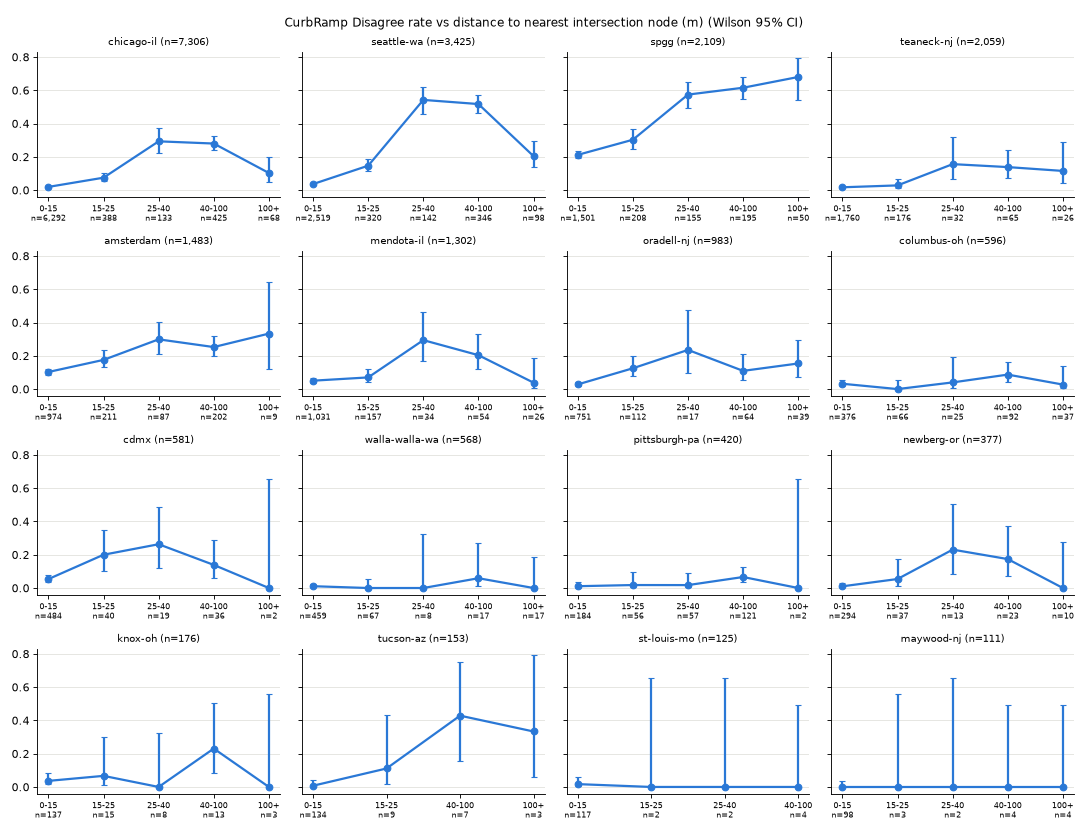
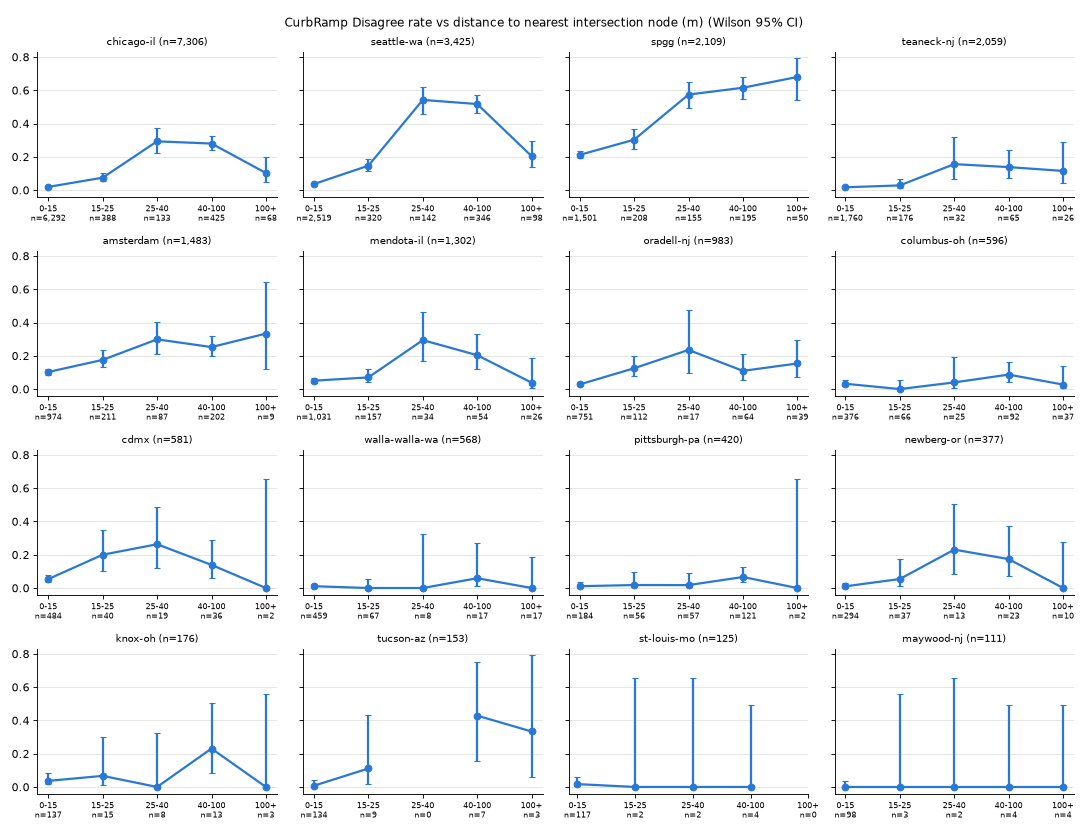
Road prior write-up: city-resampled CIs, expert pool, review nits
- Transfer of the routing signal is not established: ΔAUC +0.008 clears
  zero resampling labels (0.002-0.015) but not cities (-0.004 to 0.014);
  no CurbRamp lift CI clears zero at the city level.
- Expert-overturned Agrees (now 154, read from validations) sit >= 25 m
  from an intersection 27% of the time vs 7% uncontested.
- Packet rebuilt: 100 AI Disagrees / 100 overturned Agrees (46 expert),
  50 per distance bucket, 34 cities; new key digest.
- Nits: Tucson AUC range, two rounding fixes, CI pointers, degree-2
  nodes, "nothing material", provenance pins tables not figures.
- provenance.json and the by-city figure re-recorded at the fix commit.

diff --git a/docs/road-prior-2026-10.md b/docs/road-prior-2026-10.md
@@ -3,22 +3,24 @@
 Issue #45 asks whether road-network context can tell driveway aprons mislabelled as CurbRamp from real curb ramps,
 and whether it adds anything over the production confidence. This is the first measurement. It uses no GPU, no
 imagery and no retraining. The code is `analysis/road_prior.py`; every number below comes from its `evaluate`,
-`stratify` and `routing` stages, and `road-prior-2026-10/provenance.json` pins their inputs, outputs and commit.
+`stratify` and `routing` stages, and `road-prior-2026-10/provenance.json` pins their inputs, output tables and commit (not the figures).
 
 ## Recommendation
 
 **Do not add road context as a model feature. Keep it as a candidate routing signal for cast CurbRamp Disagree
 votes, and decide after the hand-coding packet is coded.**
 
-- **As a feature it adds nothing.** Distance to an intersection predicts the human verdict on its own (AUC 0.69),
+- **As a feature it adds nothing material.** Distance to an intersection predicts the human verdict on its own (AUC 0.69),
   but the production confidence already carries it. Leave-one-city-out, adding the road features to the
   recalibrated confidence changes AUC by -0.0001 (streets) and +0.0019 (streets + OSM), with CIs that include 0.
-- **On cast Disagree votes it separates, and the separation transfers modestly.** At the same confidence, a cast
+- **On cast Disagree votes it separates, but transfer to new cities is not established.** At the same confidence, a cast
   Disagree near both an intersection and a crossing is confirmed by humans 10 to 27 points less often than one far
   from both, in three of the four confidence quartiles. With city fixed effects the near-both coefficient is
   -0.69 log-odds (SE 0.14, >= 3 votes; SE 0.05 at >= 1 vote). Leave-one-city-out, adding two context flags to the
-  confidence raises AUC by +0.008 (CI 0.002–0.015) across 24 cities, with gains in Seattle, Chicago and SPGG and a
-  loss in Amsterdam. The finer binned feature model in the lift table dilutes this and shows no significant gain.
+  confidence raises AUC by +0.008, with gains in Seattle, Chicago and SPGG and a loss in Amsterdam. That clears zero
+  when labels are resampled (CI 0.002–0.015) but not when whole cities are (-0.004 to 0.014), and the claim is
+  about unseen cities: 24 cities, only four with 100 or more validated votes. The finer binned feature model in
+  the lift table dilutes the effect further.
 - **The OSM driveway layer is too sparse to use.** Only 9.6% of the CurbRamp analysis set (16.2% of all CurbRamp
   labels with a human vote) has any mapped `service=driveway` way within 50 m, and the driveway features sit at
   AUC 0.50.
@@ -39,11 +41,14 @@ far from both is a strong one (confirmed 68% of the time), is just as well suppo
 | OSM | Overpass, `highway=crossing` nodes and `highway=service` ways, pulled 2026-10-20, all 41 cities ok |
 | Production verdict | `labels_oof.csv` (recalibrated `oof_accuracy`, Phase 0). The routing stage falls back to `new_accuracy` for labels not in the calibration fit, which is out-of-sample for them |
 | Human verdict | strict majority of human votes, AI excluded, ties dropped |
+| Expert votes | each expert's vote read from the label's rawLabels `validations` by user id (role-keyed, no ids in the repo) |
 | CurbRamp analysis set | 22,197 labels with >= 3 human votes, 34 cities, human-majority Disagree rate 8.6% |
 | Crosswalk analysis set | 6,790 labels, 28 cities, Disagree rate 14.0% |
 
 Intersection nodes are street-edge endpoints shared by two or more edges, because Project Sidewalk splits edges at
-intersections. `d_junction3_m` uses three or more edges and behaves the same.
+intersections. Not every shared endpoint is an intersection: 12% of these nodes join exactly two edges, where a
+street is split at a curve or a way break. `d_junction3_m` uses three or more edges and behaves almost the same
+(AUC 0.68 against 0.69), so the mix-up costs little.
 
 ## Results
 
@@ -58,8 +63,8 @@ intersections. `d_junction3_m` uses three or more edges and behaves the same.
 | Own street is a service road | 0.500 | flat: the streets API has almost no service edges |
 | Own OSM way is a driveway | 0.500 | flat: labels sit on street ways, never on driveways |
 
-The intersection AUC is 0.78 in Chicago and 0.80 in Seattle, and lower elsewhere. Walla Walla is the one city below
-0.5. The relation is not monotone. The Disagree rate is 4–5% from 5 to 15 m, rises to 31–36% from 25 to 100 m,
+The intersection AUC is 0.78 in Chicago and 0.80 in Seattle, and varies widely elsewhere, from 0.94 in Tucson
+(153 labels) down to Walla Walla, the one city below 0.5. The relation is not monotone. The Disagree rate is 4–5% from 5 to 15 m, rises to 31–36% from 25 to 100 m,
 and falls to 19% beyond 100 m.
 
 ![Disagree rate by distance to the nearest intersection](road-prior-2026-10/disagree_vs_intersection_pooled.png)
@@ -70,7 +75,7 @@ and falls to 19% beyond 100 m.
 
 Baseline is a logistic model on the logit of the production P(Agree). The full model adds the road features, with
 distances as bins. Each city is predicted by a model fitted on the others. ΔAUC and Δlog-loss have paired bootstrap
-95% CIs.
+95% CIs, resampling labels; the per-row city-resampled CIs are in `evaluate.md`.
 
 | Subset | Features | n | ΔAUC (CI) | Δlog-loss (CI) |
 |---|---|---|---|---|
@@ -80,8 +85,14 @@ distances as bins. Each city is predicted by a model fitted on the others. ΔAUC
 | AI Disagree assessments | streets + OSM | 3,753 | +0.0093 (0.0034, 0.0154) | -0.0042 (-0.0104, 0.0012) |
 | Cast AI Disagree votes | streets + OSM | 2,359 | +0.0060 (-0.0052, 0.0161) | +0.0031 (-0.0052, 0.0111) |
 
-Two CIs clear zero: log-loss on all verdicts with OSM, about 1% of the baseline log-loss, and AUC on AI Disagree
-assessments. On AI Agrees there is no gain, so this does not help catch the contested Agrees.
+Two CIs clear zero when labels are resampled: log-loss on all verdicts with OSM, about 1% of the baseline
+log-loss, and AUC on AI Disagree assessments. Neither does when whole cities are resampled. On AI Agrees there is no
+gain, so this does not help catch the contested Agrees.
+
+The Agrees that an expert overturned do sit away from intersections more often: 27% of the 154 are 25 m or more
+from an intersection node, against 14% of the 292 that the crowd overturned and 7% of the uncontested Agrees
+(`stratify.md`). That fits the driveway story, but 154 labels from two validators is a small sample, and the
+packet is the check.
 
 ### Cast Disagree votes by road context
 
@@ -93,13 +104,13 @@ votes. The 25 m threshold was fixed in the first commit, before any of these tab
 |---|---|---|---|
 | 0.23–0.35 | 0.40 (n 136) | 0.38 (335) | 0.24 (125) |
 | 0.35–0.55 | 0.65 (177) | 0.46 (309) | 0.38 (116) |
-| 0.55–0.67 | 0.74 (309) | 0.65 (321) | 0.63 (103) |
-| 0.67–0.72 | 0.80 (233) | 0.74 (147) | 0.83 (48) |
+| 0.55–0.67 | 0.74 (309) | 0.64 (321) | 0.63 (103) |
+| 0.67–0.72 | 0.80 (233) | 0.73 (147) | 0.83 (48) |
 | All | 0.68 (855) | 0.52 (1,112) | 0.46 (392) |
 
 By city, near-both versus far-from-both is 0.33 vs 0.68 in Chicago, 0.51 vs 0.85 in Seattle, 0.51 vs 0.69 in SPGG
-and 0.56 vs 0.56 in Amsterdam. Amsterdam's flat result rests on only 16 validated near-both votes. The Wilson CIs
-are in `stratify.md`.
+and 0.56 vs 0.56 in Amsterdam. Amsterdam's flat result rests on only 16 validated near-both votes. Wilson CIs for
+the pooled quartile cells are in `stratify.md`; the per-city counts behind these rates are in `routing.md`.
 
 Of all 16,263 cast CurbRamp Disagrees in the public cities, 28% are near both, 38% far from one and 33% far from
 both. The same pattern holds for all AI Disagree assessments, including the ones cast as Unsure: near-both is 0.27
@@ -114,7 +125,7 @@ From the `routing` stage, on cast CurbRamp Disagrees:
 | City fixed effects, >= 3 votes (n 2,346, 18 cities) | near-both -0.69 (SE 0.14), far-from-one -0.36 (SE 0.10) |
 | Same, >= 1 vote (n 14,911, 31 cities) | near-both -0.69 (SE 0.05), far-from-one -0.40 (SE 0.04) |
 | Threshold 15 m / 40 m, >= 3 votes | near-both -0.90 / -0.34, both p < 0.02 |
-| Leave-one-city-out, confidence + two context flags | ΔAUC +0.008 (0.002–0.015); Δlog-loss -0.003 (-0.007, +0.001) |
+| Leave-one-city-out, confidence + two context flags | ΔAUC +0.008: CI 0.002–0.015 resampling labels, -0.004 to 0.014 resampling cities; Δlog-loss -0.003 (-0.007, +0.001) |
 | Held-out city ΔAUC | Chicago +0.020, Seattle +0.015, SPGG +0.011, Amsterdam -0.022 |
 
 The >= 1-vote quartile table shows the same ordering in every quartile but the top one. Six cities in the >= 3-vote
@@ -127,8 +138,8 @@ corner ramp can sit far from any intersection node, do not drive the result.
 Distance to an OSM crossing predicts Crosswalk Disagrees with AUC 0.71, the strongest single signal in the study,
 as it should be. Distance to an intersection node is slightly reversed for Crosswalk (AUC 0.46), plausibly because
 a crosswalk spans the roadway away from the centreline node. Leave-one-city-out on top of the confidence, the
-streets + OSM features improve Crosswalk log-loss by 0.0058 (CI 0.0016–0.0100), about 5% of the baseline, with
-no significant AUC change. Crosswalk is already at AUC 0.98, so this is not worth pursuing either.
+streets + OSM features improve Crosswalk log-loss by 0.0058 (CI 0.0016–0.0100 resampling labels, -0.013 to 0.003
+resampling cities), about 5% of the baseline, with no significant AUC change. Crosswalk is already at AUC 0.98, so this is not worth pursuing either.
 
 ## Caveats
 
@@ -139,18 +150,21 @@ no significant AUC change. Crosswalk is already at AUC 0.98, so this is not wort
   near-intersection Disagrees that humans overturn are real ramps, and whether far ones are driveways.
 - **OSM coverage varies by city.** Crossing mapping is dense in some cities and sparse in others, which may explain
   why Amsterdam is flat. Driveway mapping is sparse almost everywhere.
-- **The transfer is modest and city-dependent.** The held-out gain is small and negative in Amsterdam, and the rule
-  fires rarely where crossings are poorly mapped. A routing rule should be validated per city before it ships.
+- **Transfer is unproven and city-dependent.** The held-out gain is small, its city-resampled CI includes zero, it
+  is negative in Amsterdam, and the rule fires rarely where crossings are poorly mapped. A routing rule should be
+  validated per city before it ships.
 
 ## Hand-coding packet
 
-200 contested public CurbRamp labels from 36 cities: 115 AI Disagrees and 85 Agrees overturned by the crowd or an
-expert, stratified by distance to the nearest intersection (0–15, 15–25, 25–40 and 40+ m). The packet holds only
+200 contested public CurbRamp labels from 34 cities: 100 AI Disagrees and 100 Agrees overturned by the crowd (54)
+or an expert (46), 50 in each distance bucket to the nearest intersection (0–15, 15–25, 25–40 and 40+ m). An
+earlier build had only 85 overturned Agrees, because expert votes were read from a table that leaves out most
+lone expert Disagrees; it was superseded before coding started. The packet holds only
 an item number and a Street View link. The label id, city, share-page link and verdicts are in the key, which is
 kept with the seed outside the repo. The share page is left out of the packet because it shows earlier validations to
 admins and offers a vote, so it would unblind the item.
 - **Codes:** `driveway`, `real_ramp`, `other`, `cant_tell`.
[2 lines of base64/hex data omitted]
 
 ## Reproduce
 
